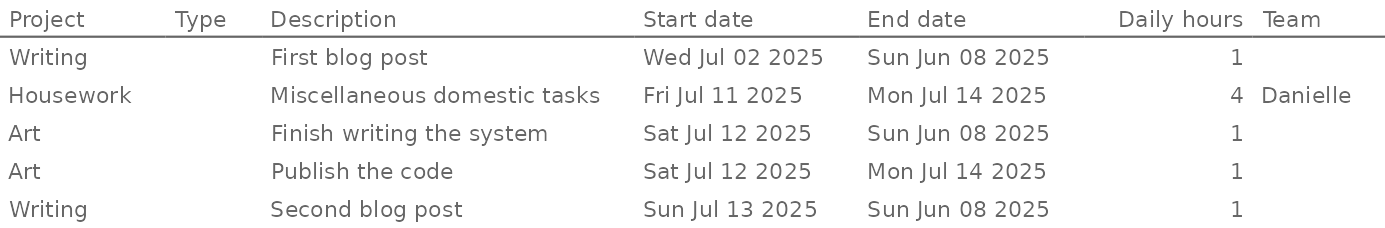
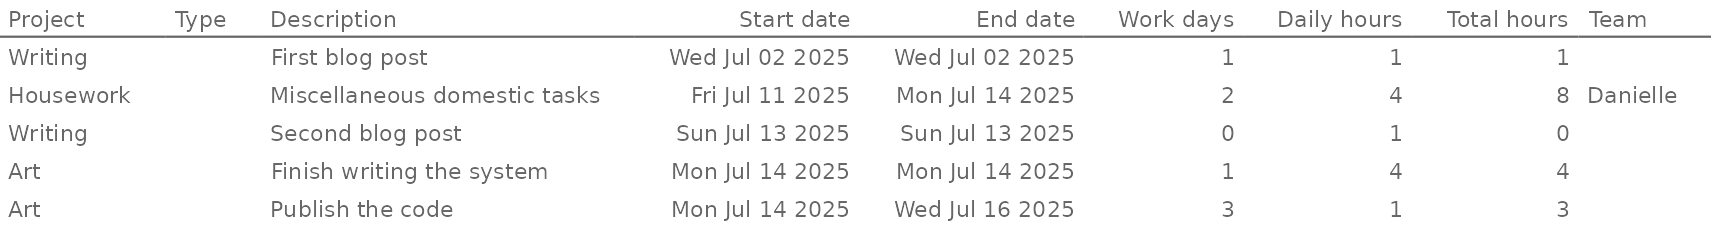
tidies option storage and task lengths

diff --git a/README.md b/README.md
@@ -40,7 +40,7 @@ cal$add_task(
   start = as.Date("2025-07-11"),
   stop = as.Date("2025-07-14"),
   project = "Housework",
-  hours = 4,
+  daily_hours = 4,
   team  = "Danielle"
 )
 cal
@@ -49,8 +49,8 @@ cal
 
 # this is a more convenient way
 cal$set_project("Art")
-cal$add_task("Finish writing the system", "12 jul")
-cal$add_task("Publish the code", "12 jul", "14 jul")
+cal$add_task("Finish writing the system", "14 jul", total_hours = 4)
+cal$add_task("Publish the code", "14 jul", "16 jul", total_hours = 3)
 cal
 #> <Calendario object [2 projects]>
 #> • Art [2 tasks]
@@ -73,14 +73,14 @@ Viewing tasks, projects, and monthly calendars:
 ``` r
 # extracting tasks returns a tibble
 cal$get_tasks()
-#> # A tibble: 5 × 7
-#>   project   type  description                  start      stop       hours team    
-#>   <chr>     <chr> <chr>                        <date>     <date>     <dbl> <chr>   
-#> 1 Housework <NA>  Miscellaneous domestic tasks 2025-07-11 2025-07-14     4 Danielle
-#> 2 Art       <NA>  Finish writing the system    2025-07-12 2025-06-08     1 <NA>    
-#> 3 Art       <NA>  Publish the code             2025-07-12 2025-07-14     1 <NA>    
-#> 4 Writing   <NA>  First blog post              2025-07-02 2025-06-08     1 <NA>    
-#> 5 Writing   <NA>  Second blog post             2025-07-13 2025-06-08     1 <NA>
+#> # A tibble: 5 × 9
+#>   project   type  description                  start      stop        days daily_hours total_hours team    
+#>   <chr>     <chr> <chr>                        <date>     <date>     <dbl>       <dbl>       <dbl> <chr>   
+#> 1 Housework <NA>  Miscellaneous domestic tasks 2025-07-11 2025-07-14     2           4           8 Danielle
+#> 2 Art       <NA>  Finish writing the system    2025-07-14 2025-07-14     1           4           4 <NA>    
+#> 3 Art       <NA>  Publish the code             2025-07-14 2025-07-16     3           1           3 <NA>    
+#> 4 Writing   <NA>  First blog post              2025-07-02 2025-07-02     1           1           1 <NA>    
+#> 5 Writing   <NA>  Second blog post             2025-07-13 2025-07-13     0           1           0 <NA>
 
 # showing tasks returns a flextable
 cal$show_tasks()
@@ -97,18 +97,18 @@ cal$get_calendar("1 jun", "11 aug")
 #>   Month Days    Mon   Tue   Wed   Thu   Fri Total
 #>   <ord> <chr> <dbl> <dbl> <dbl> <dbl> <dbl> <dbl>
 #> 1 Jun   2-6       0     0     0     0     0     0
-#> 2 Jun   9-13      3     3     3     3     3    15
-#> 3 Jun   16-20     3     3     3     3     3    15
-#> 4 Jun   23-27     3     3     3     3     3    15
-#> 5 Jun   30        3    NA    NA    NA    NA     3
+#> 2 Jun   9-13      0     0     0     0     0     0
+#> 3 Jun   16-20     0     0     0     0     0     0
+#> 4 Jun   23-27     0     0     0     0     0     0
+#> 5 Jun   30        0    NA    NA    NA    NA     0
 #> 
 #> [[2]]
 #> # A tibble: 5 × 8
 #>   Month Days    Mon   Tue   Wed   Thu   Fri Total
 #>   <ord> <chr> <dbl> <dbl> <dbl> <dbl> <dbl> <dbl>
-#> 1 Jul   1-4      NA     3     3     2     2    10
-#> 2 Jul   7-11      2     2     2     2     6    14
-#> 3 Jul   14-18     5     0     0     0     0     5
+#> 1 Jul   1-4      NA     0     1     0     0     1
+#> 2 Jul   7-11      0     0     0     0     4     4
+#> 3 Jul   14-18     9     1     1     0     0    11
 #> 4 Jul   21-25     0     0     0     0     0     0
 #> 5 Jul   28-31     0     0     0     0    NA     0
 #> 
